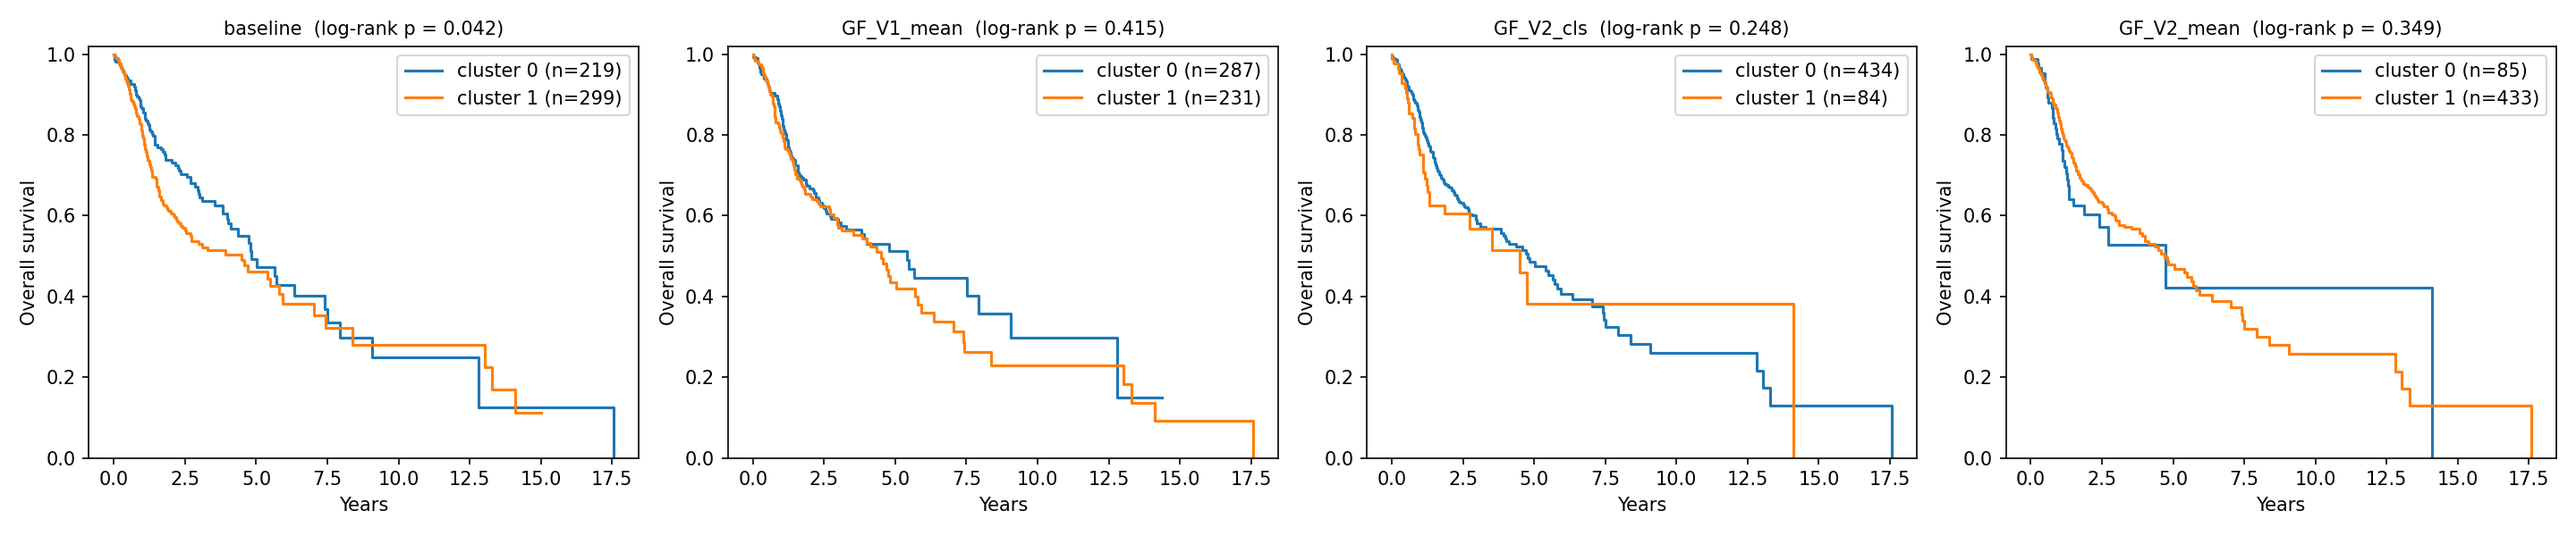
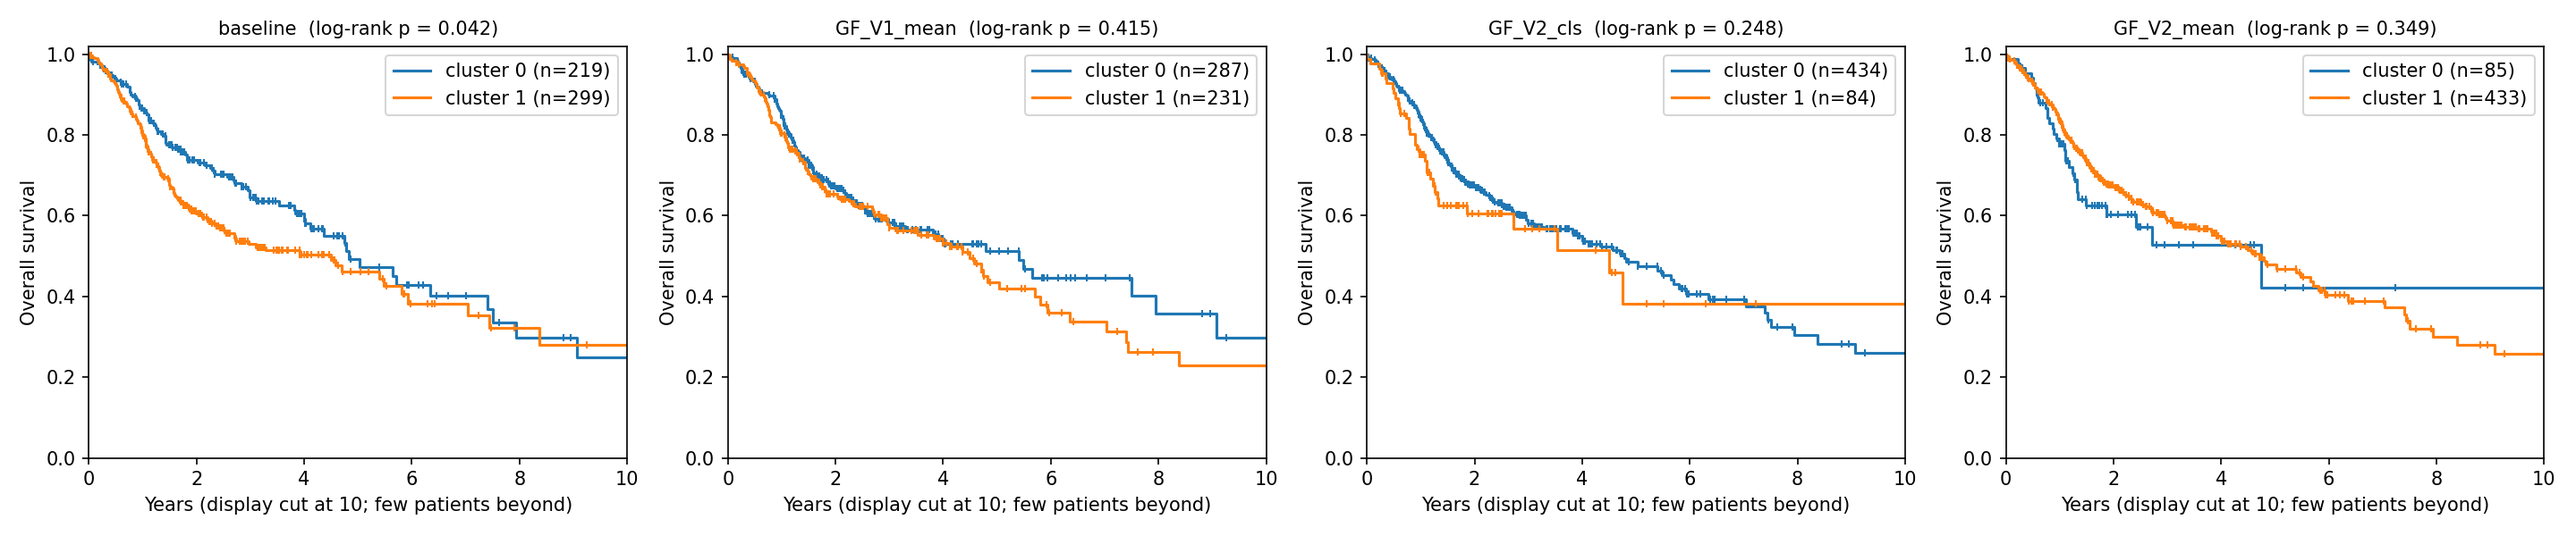
Step 08: test clusters against collection site (batch check); show censoring on survival plots

diff --git a/scripts/08_characterise_clusters.py b/scripts/08_characterise_clusters.py
@@ -60,6 +60,7 @@ ann["smoking"] = ann["smoking_status"].map(
     lambda s: np.nan if pd.isna(s) else "Never" if "Non-Smoker" in s else "Current" if s == "Current Smoker" else "Former")
 ann["stage_num"] = ann["stage"].map({"I": 1, "II": 2, "III": 3, "IV": 4})
 ann["OS_years"] = ann["OS_time"] / 365.25
+ann["collection_site"] = ann.index.str[5:7]  # TCGA tissue source site (hospital): a classic batch variable
 
 # Programme scores: average z-score of the programme's genes (log-CPM)
 X = pd.DataFrame(adata.X.toarray() if hasattr(adata.X, "toarray") else np.asarray(adata.X),
@@ -71,7 +72,7 @@ for prog, genes in PROGRAMMES.items():
 
 reps = sorted({c.rsplit("_", 1)[0] for c in labels.columns if c.endswith("_kmeans")},
               key=lambda r: (r != "baseline", r))
-CATEGORICAL = ["site", "stage", "sex", "smoking", "grade"]
+CATEGORICAL = ["site", "stage", "sex", "smoking", "grade", "collection_site"]
 CONTINUOUS = ["age", "library_size_M", "n_genes_detected"] + list(PROGRAMMES)
 print(f"k = {K} | {len(ann)} primary tumours | representations: {', '.join(reps)}")
 
@@ -119,9 +120,11 @@ for i, rep in enumerate(reps):
     for c in sorted(d["cl"].unique()):
         m = d["cl"] == c
         KaplanMeierFitter().fit(d.loc[m, "OS_years"], d.loc[m, "OS_event"],
-                                label=f"cluster {c} (n={m.sum()})").plot_survival_function(ax=ax, ci_show=False)
+                                label=f"cluster {c} (n={m.sum()})").plot_survival_function(ax=ax, ci_show=False, show_censors=True,
+                                                                           censor_styles={"ms": 4, "marker": "|"})
     lr = multivariate_logrank_test(d["OS_years"], d["cl"], d["OS_event"])
-    ax.set(title=f"{rep}  (log-rank p = {lr.p_value:.3g})", xlabel="Years", ylabel="Overall survival", ylim=(0, 1.02))
+    ax.set(title=f"{rep}  (log-rank p = {lr.p_value:.3g})", xlabel="Years (display cut at 10; few patients beyond)",
+           ylabel="Overall survival", ylim=(0, 1.02), xlim=(0, 10))
     ax.title.set_fontsize(10)
 
     # Cox model: cluster effect adjusted for age and stage; reference = largest cluster
